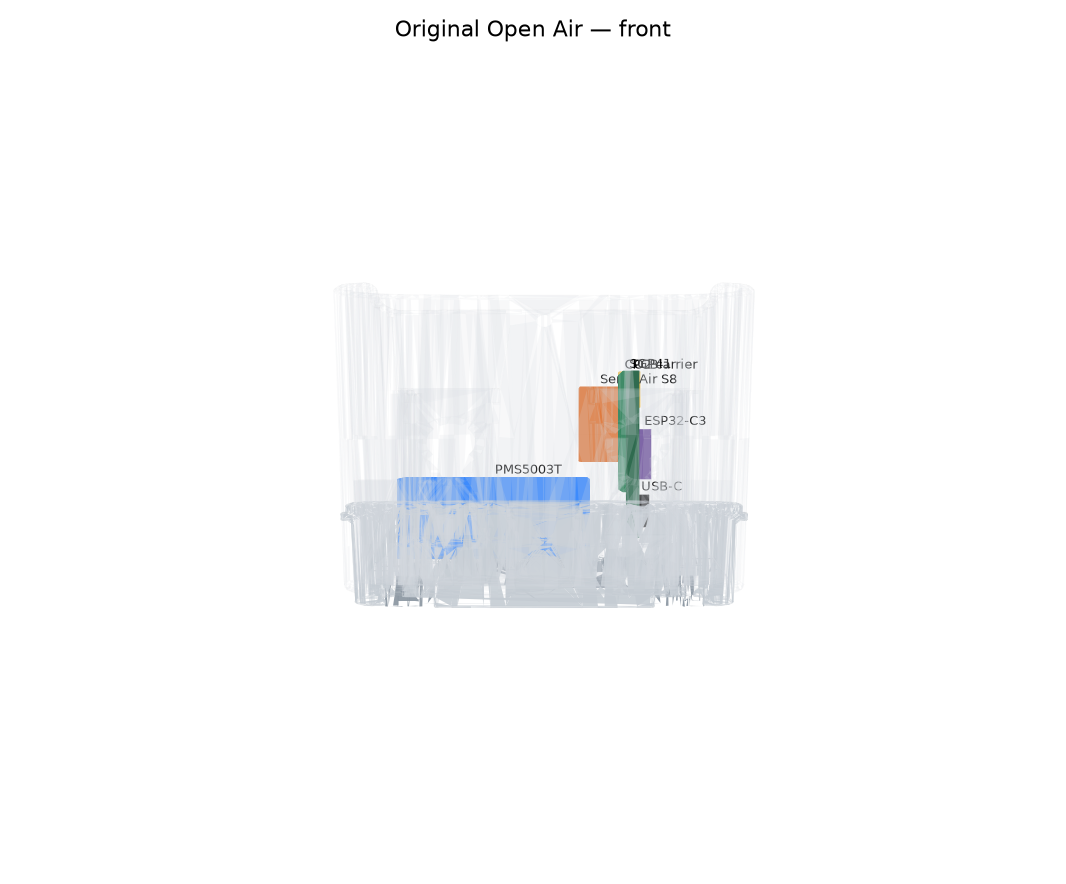
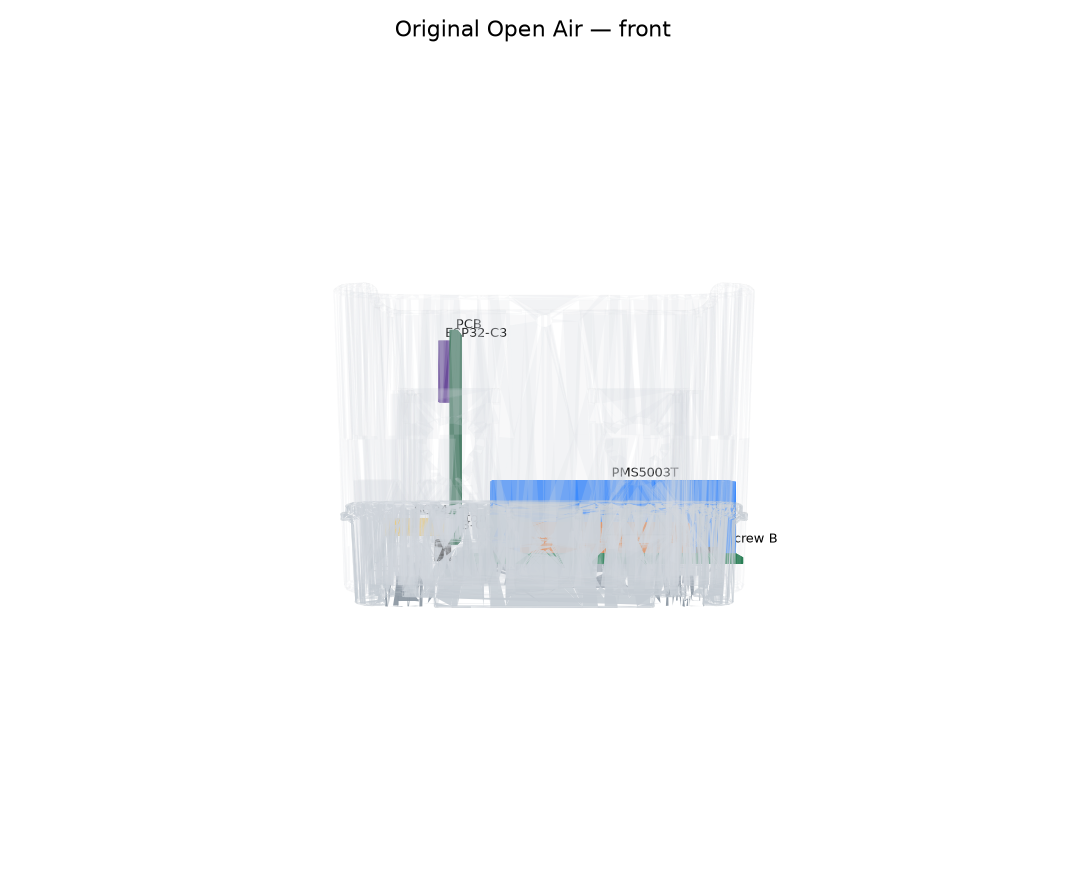
Rebuild the original assembly from the O-1PST photos.
The board stands in the middle with the USB edge down, the PMS5003T lies flat behind it, and the SenseAir carrier is screwed to the floor. The SGP41 stays on that same bottom edge. The modular variants are left as they are.

diff --git a/hardware/modular/enclosure/assembly/index.html b/hardware/modular/enclosure/assembly/index.html
@@ -114,7 +114,7 @@
     const DIMS = {
       "outdoor-flat": "A flat: 91.5 × 86.7 × 124 mm. Grill 3.2, base 28, cover 112. USB-C recess 18×14 mm in the base bottom. M8 Ø8.2. PM ports Ø16.",
       "outdoor-vertical": "B vertical: 91.5 × 86.7 × 106 mm. Grill 3.2, base 28, cover 94. Side bay 30 mm for a 22 mm pack plus a 4 mm PCM. Same USB, M8 and PM holes.",
-      "original": "Original O-1PST in the DIY shells: PCB with ESP32-C3, USB-C and SGP41 on the side wall, SenseAir S8 on the board, PMS5003T over the grill. No separate SHT. Published shell 91.5 × 86.7 × 85 mm.",
+      "original": "Original O-1PST: grill down, cover up. PCB stands in the middle, USB-C on the bottom edge. PMS5003T lies flat behind it. SenseAir S8 is screwed to the floor. SGP41 faces out beside the USB. No separate SHT.",
       "variant-1": "Previous variant 1. Not the three-part outdoor shell.",
       "variant-2": "Previous variant 2. Not the three-part outdoor shell.",
       "variant-3": "Previous variant 3. Not the three-part outdoor shell."

diff --git a/hardware/modular/enclosure/render_original_assembly.py b/hardware/modular/enclosure/render_original_assembly.py
@@ -25,17 +25,31 @@ RENDERS = ROOT / "renders"
 # name, color, center (mm), size (mm)
 # Board pose: USB edge toward the cover's -X bulge, 57 mm running inward,
 # 44 mm vertical, sheet parallel to the XZ plane. See the README.
-# USB edge of the 57.03 x 43.96 mm board is at world x = -28 (the cover bulge).
-# pcb x 170.34 -> world x -28, and pcb x decreases as world x increases.
-# pcb y 61.41 -> world z 18, so the USB end of that edge is the lower end.
+# Pose from the O-1PST assembly photos, not from a guessed side-wall mount.
+# The board stands in the middle of the ring. Its short edge (USB, LED, button,
+# SGP41) is the bottom edge. High KiCad X is down. KiCad Y runs along world X,
+# with the USB end toward -X. The sheet is thin in Y: the PMS5003T is behind
+# it (+Y) and the SenseAir carrier is on the floor to its right (+X).
+# KiCad: USB1 (168, 67.37), D2 (166.57, 76.91), SW1 (167.80, 81.06),
+# I2C1 (165.74, 101.53), U2 (124, 83.4). Edge x 113.31..170.34, y 61.41..105.37.
+def _x(pcb_y):
+    return -22.0 + (pcb_y - 61.41)
+
+def _z(pcb_x):
+    return 16.0 + (170.34 - pcb_x)
+
 PARTS = [
-    ("PCB", "#2f6b4f", (0.5, 18.0, 40.0), (57.0, 1.6, 44.0)),
-    ("ESP32-C3", "#6b4c9a", (18.3, 20.0, 40.0), (16.6, 2.4, 13.2)),
-    ("USB-C", "#222222", (-27.3, 20.4, 24.0), (7.5, 3.2, 9.0)),
-    ("SGP41", "#f2c14e", (-34.0, 18.0, 58.0), (12.0, 4.5, 10.0)),
-    ("CO2 carrier", "#1f7a4d", (0.5, 16.4, 46.0), (54.0, 1.6, 32.0)),
-    ("SenseAir S8", "#e07a3d", (0.5, 11.4, 48.0), (33.5, 8.5, 20.0)),
-    ("PMS5003T", "#3d8bfd", (4.0, -10.0, 23.0), (50.0, 38.0, 21.0)),
+    ("PCB", "#2f6b4f", (0.0, -18.0, 44.5), (44.0, 1.6, 57.0)),
+    ("ESP32-C3", "#6b4c9a", (_x(83.40), -20.2, _z(124.00)), (13.2, 2.4, 16.6)),
+    ("USB-C", "#222222", (_x(67.37), -21.0, 14.2), (9.0, 3.2, 7.5)),
+    ("LED", "#f4f1ea", (_x(76.91), -20.4, _z(166.57)), (3.0, 2.4, 4.0)),
+    ("Button", "#d0d0d0", (_x(81.06), -20.6, _z(167.80)), (4.5, 3.0, 3.5)),
+    ("SGP41", "#f2c14e", (_x(101.53), -26.0, _z(165.74)), (10.0, 12.0, 4.5)),
+    ("PMS5003T", "#3d8bfd", (-16.0, 14.0, 22.0), (38.0, 50.0, 21.0)),
+    ("CO2 carrier", "#1f7a4d", (20.0, 12.0, 12.3), (32.0, 54.0, 1.6)),
+    ("SenseAir S8", "#e07a3d", (20.0, 12.0, 17.4), (20.0, 33.5, 8.5)),
+    ("S8 screw A", "#555555", (33.0, -8.0, 14.2), (4.0, 4.0, 3.0)),
+    ("S8 screw B", "#555555", (33.0, 32.0, 14.2), (4.0, 4.0, 3.0)),
 ]
 
 
@@ -73,9 +87,9 @@ def build_scene(exploded=False):
     scene.add_geometry(grill, node_name="Grill", geom_name="Grill")
     scene.add_geometry(cover, node_name="Cover", geom_name="Cover")
     for name, color, mesh in component_meshes():
-        if exploded and name != "PMS5003T":
+        if exploded and name in ("PCB", "ESP32-C3", "USB-C", "LED", "Button", "SGP41"):
             mesh = mesh.copy()
-            mesh.apply_translation([0, 0, 18])
+            mesh.apply_translation([0, 0, 28])
         paint(mesh, color, 255)
         scene.add_geometry(mesh, node_name=name, geom_name=name)
     return scene
@@ -106,9 +120,9 @@ def _frame(path, view, elev, azim, exploded=False, section=False):
     add_mesh(ax, cover, "#d9dde3", 0.18 if not section else 0.55)
     for name, color, center, size in PARTS:
         mesh = box_mesh(center, size)
-        if exploded and name != "PMS5003T":
-            mesh.apply_translation([0, 0, 18])
-            center = (center[0], center[1], center[2] + 18)
+        if exploded and name in ("PCB", "ESP32-C3", "USB-C", "LED", "Button", "SGP41"):
+            mesh.apply_translation([0, 0, 28])
+            center = (center[0], center[1], center[2] + 28)
         add_mesh(ax, mesh, color, 1)
         ax.text(center[0], center[1], center[2] + size[2] / 2 + 1.2, name, fontsize=7)
     lo, hi = scene_bounds([base, cover, grill])

diff --git a/hardware/modular/enclosure/README.md b/hardware/modular/enclosure/README.md
@@ -49,35 +49,31 @@ The shell hole is **Ø8.2 mm**, which lets the M8×1 thread through a 2.4 mm flo
 
 ## Original Open Air assembly
 
-`assembly/original.glb` is the O-1PST kit inside the three DIY shells, one mesh per part. The shells are the AirGradient STLs. The components are boxes at the datasheet and KiCad sizes. Renders: `renders/original-exploded.png`, `renders/original-assembly-front.png`, `renders/original-assembly-side.png`, `renders/original-assembly-top.png`, `renders/original-assembly-section.png`, and `renders/original-assembly-legend.png`.
+`assembly/original.glb` is the O-1PST kit inside the three DIY shells. Placement follows the photos on the [PCB 1.3 assembly instructions](https://www.airgradient.com/documentation/kb/kb-old-instructions-the-airgradient-open-air-outdoor-air-quality-monitor-o-1pst-kit-pcb-version-1.3) (CC BY-SA 4.0). The shells are the STLs from `diy_outdoor_3d.zip`. Component boxes use the KiCad outlines and the Plantower and SenseAir drawings. Renders: `renders/original-exploded.png`, `renders/original-assembly-front.png`, `renders/original-assembly-side.png`, `renders/original-assembly-top.png`, `renders/original-assembly-section.png`, `renders/original-assembly-legend.png`. The photo comparison is `renders/original-vs-instructions.png`.
 
-The kit on the [builds overview](https://www.airgradient.com/documentation/kb/kb-diy-the-airgradient-builds-overview) (O-1PST row, STL link `diy_outdoor_3d.zip`) and the [PCB 1.3 assembly instructions](https://www.airgradient.com/documentation/kb/kb-old-instructions-the-airgradient-open-air-outdoor-air-quality-monitor-o-1pst-kit-pcb-version-1.3) is:
+There is no separate SHT. Temperature and humidity are read inside the PMS5003T.
 
-| Part | Size used | Source | In this model |
-| --- | --- | --- | --- |
-| Grill, base ring, cover | measured STL bounds | `diy_outdoor_3d.zip`, CC BY-SA 4.0 | The meshes themselves |
-| Open Air PCB | 57.03 × 43.96 × 1.6 mm | Edge cuts on `hardware/open-air/main-board/ag_outdoor.kicad_pcb` | Standing, USB edge toward the cover's −X bulge |
-| ESP32-C3-MINI-1 | 16.6 × 13.2 × 2.4 mm | Espressif module drawing. KiCad places U2 at (124, 83.4) | On the PCB face, at that footprint |
-| USB-C | 9.0 × 7.5 × 3.2 mm body | GCT USB4105, the footprint on the board. KiCad USB1 at (168, 67.37), on the short edge | On that edge, mouth toward −X |
-| SGP41 module | 10.0 × 12.0 mm outline, 4.5 mm thick | Edge cuts on `hardware/open-air/sgp41-module/`. Socket I2C1 at (165.74, 101.53) | Plugged on that socket, sticking out past the USB edge. Thickness is a guess |
-| CO2 carrier | 54 × 32 × 1.6 mm | Edge cuts on `hardware/open-air/co2-module/` | On the PCB, above the particle sensor |
-| SenseAir S8 | 33.5 × 20 × 8.5 mm | SenseAir S8 product specification | On the carrier. The two Ø2.5 mm holes are on the carrier, 33 mm apart |
-| PMS5003T | 50 × 38 × 21 mm | Plantower PMS5003T manual | Flat on the grill. Which end is the inlet is a guess |
+| What the photo shows | Step | Where it went in the model |
+| --- | --- | --- |
+| White cover up, blue grill down, USB-C plugged into the blue end beside the LED hole and the button slot | Closed unit, photo `unnamed-9` | Grill at the bottom (z = 0), cover sleeved on from above. USB, LED and button are on the bottom edge of the board |
+| SGP41 plugged into the socket on the same edge as the USB, facing out, with the button and LED between it and the USB | Step 1, photo `unnamed-2`, and the bare board in step 4's wiring photo `unnamed-5` | Socket I2C1. The module sticks out past that edge. Thickness 4.5 mm is still a guess; the 10 × 12 mm outline is the KiCad edge |
+| SenseAir carrier lying flat in the blue tray, silver S8 on top, two screws into the tray | Step 2, photo `unnamed-3` | Carrier on the floor to the right of the board. The two screws are on the carrier. The main PCB has no holes for them |
+| PMS5003T cable on the end that also has the small port. Label side is the top face | Step 3, photo `unnamed-4` | Flat behind the board, label up, that cable end toward the board. Inlet end is the far end. That end-to-end reading is from the loose sensor photo, not from an arrow in the tray |
+| Board standing in the middle of the tray, PM flat behind it, S8 still on the floor to the right, USB at the bottom edge | Step 4, photo `unnamed-6` | Board plane is vertical, 57 mm tall, 44 mm across, USB edge down. ESP32-C3 is on the upper half, at U2 |
+| Four long screws close the case after the cover slides on. The photo is soap on a screw, not the bosses | Step 7, photo `unnamed-10`, and the four towers in `unnamed-3` and `unnamed-6` | Not modeled as STL bosses. The DIY ring does not have those four towers. The molded case in the photos does |
 
-There is no separate SHT. The O-1PST reads temperature and humidity inside the PMS5003T. The SHT4x module on the builds page is for the indoor ONE and the Open Air Max, not this monitor. The older ESP8266 outdoor page mentions an SHT in one photo caption, but its parts table does not list one, and these STLs are the files linked from the O-1PST row.
+The DIY STLs are not the injection-molded shell in the photos. The ring is round and open, with a separate grill, and the cover's only asymmetry is a bulge on −X. A ray sample of that bulge did not find a rectangular USB cutout. The USB is still aimed at the bottom edge, as in the photos. The round ring is tighter than the square molded tray, so the PM and the CO2 carrier meet the wall.
 
-Verified from the files: the three shell sizes and the −X bulge, the PCB outline, and where USB1, U2, I2C1, PM1 and PM2 sit on that board. The S8 and SGP41 outlines. The PMS5003T and S8 outer sizes.
-
-Estimated, because AirGradient has not published a STEP assembly: the board's yaw in the shell (USB edge toward the bulge, USB end of that edge downward, because the instructions put the LED on the bottom part), the height of the S8 on the board, and the PMS5003T's place on the grill. The V1.3 PCB has no holes for the S8 screws. The instructions still say to screw the module on with two M1.8×11 screws and washers, so those screws are drawn as landing on the carrier, not through the main board.
+Sizes that are measured, not guessed: PCB 57.03 × 43.96 × 1.6 mm from the edge cuts; ESP32-C3-MINI-1 16.6 × 13.2 × 2.4 mm; SGP41 outline 10 × 12 mm; CO2 carrier 54 × 32 mm; SenseAir S8 33.5 × 20 × 8.5 mm; PMS5003T 50 × 38 × 21 mm.
 
 ## Original reference
 
 The production Open Air (O-1PST) is 91.5 × 86.7 × 85 mm in ASA ([spec sheet](https://www.airgradient.com/documents/spec-sheets/Spec_Sheet_AirGradient_Open_Air_O-1PST.pdf)). The [assembly instructions](https://www.airgradient.com/documentation/kb/kb-old-instructions-the-airgradient-open-air-outdoor-air-quality-monitor-o-1pst-kit-pcb-version-1.3) put the parts in the bottom shell and slide the top over a vertical PCB:
 
-- The Plantower PMS5003T lies in the bottom, over the downward vent. Air must enter from below and leave by a separate path so it does not loop. Temperature and humidity in that product are read inside the PMS5003T, not in free air.
-- The SenseAir S8 is screwed beside the particle sensor.
-- The SGP41 is on the PCB, facing outward, next to the USB-C receptacle.
-- The PCB (about 57 × 44 mm on `hardware/open-air/main-board/ag_outdoor.kicad_pcb`, USB1 on the short edge) stands upright. The status LED is visible on the bottom part.
+- The Plantower PMS5003T lies flat in the bottom, behind the upright board, label up, over the grill. Temperature and humidity in that product are read inside the PMS5003T, not in free air.
+- The SenseAir S8 carrier is screwed flat to the floor of the bottom shell, to the side of the board.
+- The SGP41 is on the PCB's bottom edge, the same edge as the USB-C, facing outward.
+- The PCB stands in the middle. Its short edge, with the USB-C, LED and button, is the bottom edge. The LED shows on the bottom part.
 - The top shell measured here is 91.5 × 85.0 × 81.9 mm. Bottom part B is the open ring (83 × 83 × 27 mm). Bottom part A is the round grill (72 × 71 × 12 mm).
 
 ![Original Open Air placement](renders/original-reference.png)
@@ -90,6 +86,8 @@ Our shell keeps that floor: two 16 mm ports under the SPS30, the round grill ove
 | SenseAir S8 beside the PM sensor | Floor, not in the exhaust | SCD30 (SCD41 uses the same screws) |
 | SGP41 facing out next to USB | Side wall by the USB opening | SGP41 |
 | No separate ambient T/RH | — | SHT45 on the intake side |
+
+The outdoor-flat and outdoor-vertical models were not moved after this photo pass. They still put the USB on the base bottom, which matches the photos, but they still put the gas sensor on the side wall and the CO2 module beside the particle sensor on the floor. The photos put the CO2 carrier on the floor and the SGP41 on the bottom edge of a board that stands in the middle.
 | Vertical PCB | Back of the bottom shell | LOLIN32 or the ESP32-S3, standing |
 | USB-C on that PCB, low | Side of the bottom shell | BQ25185 USB-C, same opening |
 | No battery, no solar | — | Pack and M8 inlet, off the airflow |
